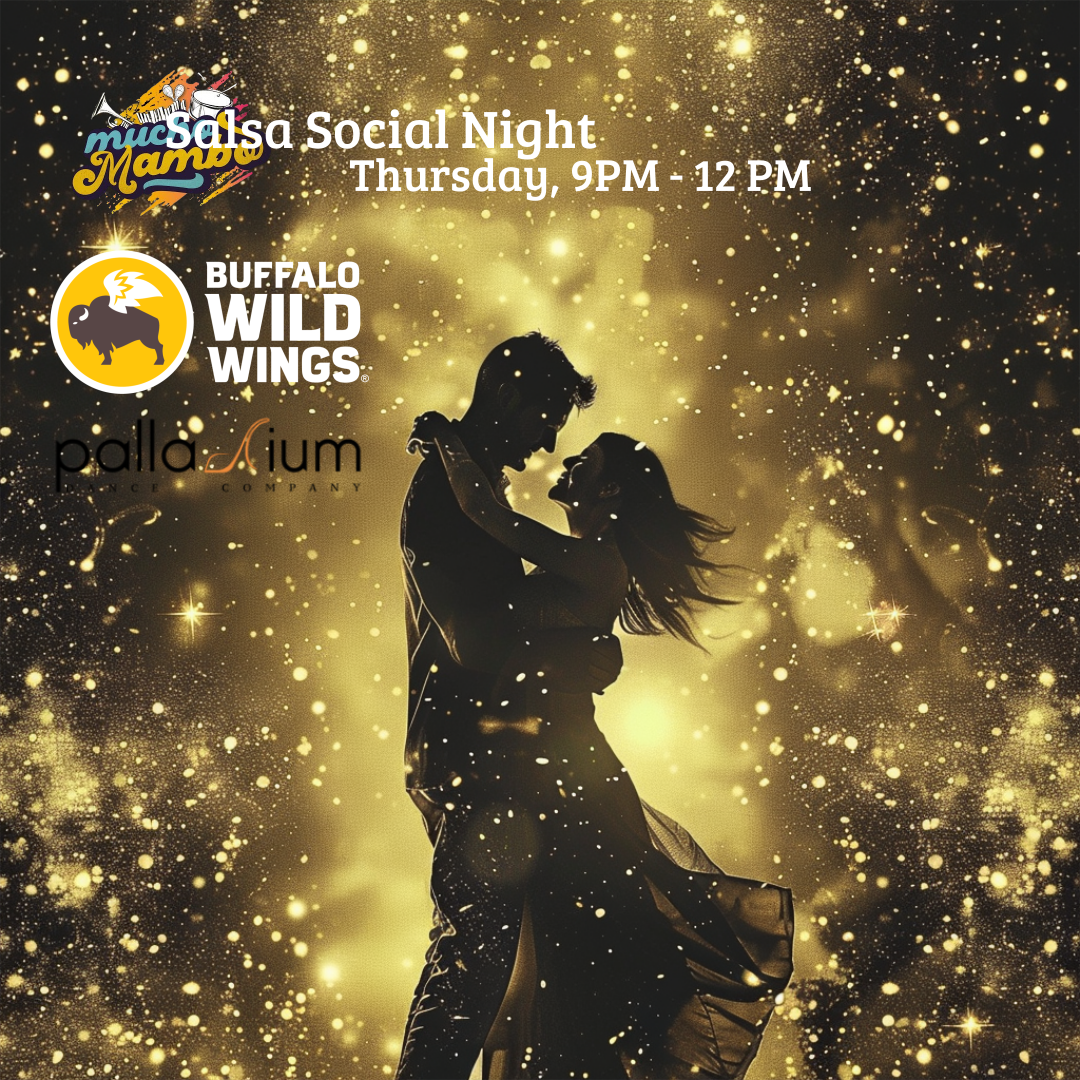
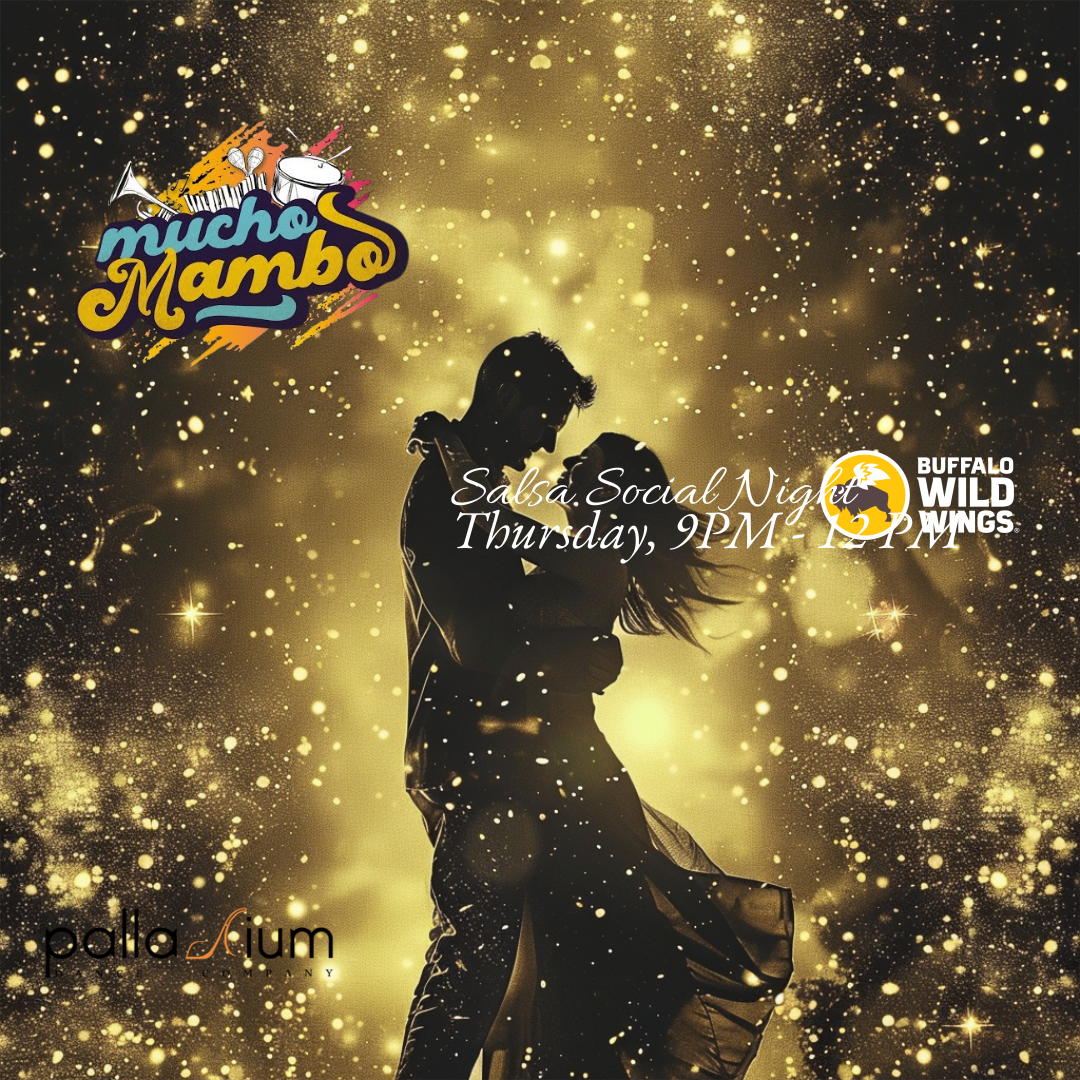
TextBox is no more centered at x, x is now left

diff --git a/step3.js b/step3.js
@@ -129,7 +129,7 @@ async function createCanvas() {
     }
     // Add all the texts to Canvas
     const textElements = step2_output.texts.map(t => {
-        return createDynamicText(t.content, t.x, t.y, "bree serif", 'regular', "#FFFFFF", t.font_size, 'normal');
+        return createDynamicText(t.content, t.x, t.y, t.font_family, 'regular', "#FFFFFF", t.font_size, 'normal');
     })
     const group = new fabric.Group(textElements, {});//check
     canvas.add(group);
@@ -179,10 +179,10 @@ function createDynamicText(text, left, top, fontFamily, fontWeight, fill, fontSi
     const textWidth = getTextWidth(text, fontFamily, fontWeight, fontSize);
 
     // Adjust the left position to center the text horizontally
-    textbox.set({
-        // fontSize: fontSize,
-        left: left - (textWidth / 2)
-    });
+    // textbox.set({
+    //     // fontSize: fontSize,
+    //     left: left - (textWidth / 2)
+    // });
 
     return textbox;
 }

diff --git a/step2_prompts.py b/step2_prompts.py
@@ -2,10 +2,9 @@ import json
 from step2_schema import Poster
 
 step2_system_prompt = """
-Your job is to design a poster. The user will give you three things:
-1. Poster Image: The background image of the poster
-2. The dimensions of the Poster Image
-3. A list of elements to be placed on the Poster Image
+Your job is to place texts and assets (like logos) on a poster. The user will give you two things:
+1. Poster Image: The background image of the poster of width <width> and height <height>
+2. A list of elements to be placed on the Poster Image
 
 For each element you have to specify some details which will be used to position them on the poster.
 For every element you have to specify the position (X and Y co-ordinates) of the element in the poster.

diff --git a/step2.py b/step2.py
@@ -17,7 +17,8 @@ if __name__ == "__main__":
         os.makedirs(config['STEP3_OUTPUT_FOLDER'])
     i = 0
     for url in step1_response['urls']:
-        llm_output = askgptvision(json.dumps(step1_response['elements']), url, system=step2_system_prompt)
+        system_prompt = step2_system_prompt.replace(r"<width>", str(step1_response['width'])).replace(r"<height>", str(step1_response['height']))
+        llm_output = askgptvision(json.dumps(step1_response['elements']), url, system=system_prompt)
         step2_response = getjson(llm_output)
         step2_response['poster_image'] = {
             'x': 0,
